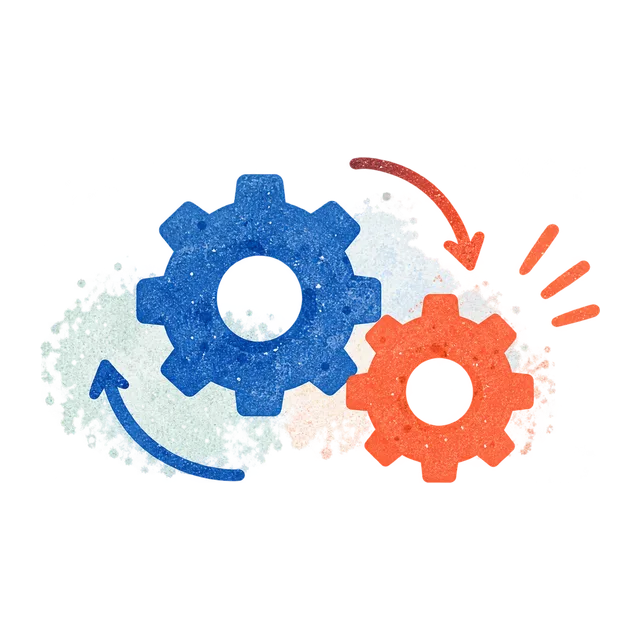
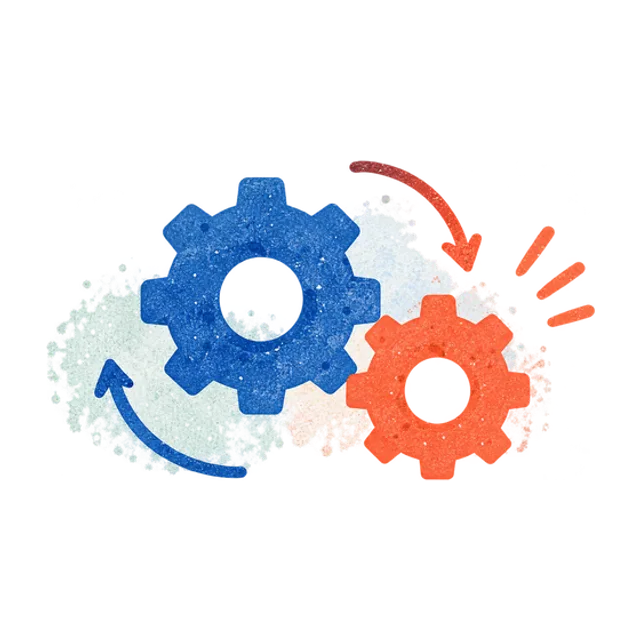
1-1-2 : vignette « Action → Réaction » remplacée ; pitch de 60 s sans cases de structure
S3 3.2 reçoit sa nouvelle vignette (engrenages). S2 2.6 : les quatre cases
« Structure de votre discours » ne servaient à rien (ni vérifiées ni
reprises au corrigé) et doublaient la structure attendue du cadre de
gauche : supprimées, avec leurs libellés et leurs styles.

diff --git a/atelier-vente/1-1-2/js/screens/s2-2-6.js b/atelier-vente/1-1-2/js/screens/s2-2-6.js
@@ -1,8 +1,7 @@
 /* S2 2.6 · Le pitch de 60 secondes.
  *
  * Trois temps :
- *   1 · RÉDIGER : le texte, avec son nombre de mots et sa durée estimée,
- *       puis la structure cochée (accroche, 2 bénéfices prouvés, conclusion) ;
+ *   1 · RÉDIGER : le texte, avec son nombre de mots et sa durée estimée ;
  *   2 · ENREGISTRER : une prise audio ou vidéo, arrêtée d'office à 60 s ;
  *   3 · S'ÉVALUER : réécouter, puis noter les 7 critères de 0 à 2.
  *
@@ -118,9 +117,6 @@
         <p class="k-instruction">Préparez un texte suffisamment court pour être prononcé en moins d’une minute.</p>
         ${ex.field('pitch', 'Votre pitch', { placeholder: 'Votre pitch…', max: 1200, rows: 8, hideLabel: true })}
         <p class="pitch-words" data-live="words">${esc(wordsLine())}</p>
-        <fieldset class="pitch-parts"><legend>Structure de votre discours</legend>${content.parts.map((part, i) => `
-          <label class="pitch-part"><input type="checkbox" data-field="part${i}" ${ex.value(`part${i}`) === true ? 'checked' : ''}><span>${esc(part)}</span></label>`).join('')}
-        </fieldset>
         ${core.errorsBox()}
         ${kit.bar({ left: kit.reset(), right: `${kit.dialogButton('example', 'Voir un exemple', 'secondary', '')}${kit.submit('Enregistrer mon texte et continuer')}` })}
       </form>

diff --git a/atelier-vente/1-1-2/css/s2.css b/atelier-vente/1-1-2/css/s2.css
@@ -93,10 +93,6 @@
 .pitch-structure { padding-left: 22px; display: grid; gap: 10px; font-size: 1.05rem; border-bottom: 1px solid var(--line); padding-bottom: 14px; }
 .pitch-tone { color: var(--navy); }
 .pitch-words { text-align: right; color: var(--accent); font-size: .95rem; margin-top: 4px; }
-.pitch-parts { border: 0; border-top: 1px solid var(--line); margin: 14px 0 0; padding: 12px 0 0; display: flex; flex-wrap: wrap; gap: 10px 28px; }
-.pitch-parts legend { color: var(--accent); font-weight: 650; padding: 0; margin-bottom: 8px; float: left; width: 100%; }
-.pitch-part { display: inline-flex; align-items: center; gap: 12px; font-size: 1.02rem; color: var(--navy); cursor: var(--cursor-hand, pointer); }
-.pitch-part input { width: 26px; height: 26px; }
 .pitch-text-head { display: flex; justify-content: space-between; align-items: center; }
 .pitch-text-body { min-height: 230px; padding: 14px; border: 1px solid #c9d6f1; border-radius: 10px; color: var(--navy); white-space: pre-wrap; margin: 8px 0; }
 .rec-format { display: inline-flex; margin: 0 auto 12px; border: 1px solid #c9d6f1; border-radius: 8px; overflow: hidden; }

diff --git a/atelier-vente/1-1-2/js/content-s2.js b/atelier-vente/1-1-2/js/content-s2.js
@@ -141,7 +141,6 @@ window.ATELIER_S2 = {
     badge: 'Spécial Sécurité',
     subtitle: 'Rédigez, enregistrez puis auto-évaluez votre pitch de RelaCosy face à un prospect particulièrement soucieux de la sécurité.',
     structure: ['Une accroche', 'Un bénéfice + une preuve', 'Un bénéfice + une preuve', 'Une conclusion'],
-    parts: ['Accroche', 'Bénéfice + preuve', 'Bénéfice + preuve', 'Conclusion'],
     example: 'Votre priorité, c’est que les données de vos clients ne soient jamais en danger : c’est exactement ce que fait RelaCosy. Vos données sont chiffrées et sauvegardées en continu, conformes RGPD : plus de 5 000 PME l’utilisent sans le moindre incident. Et vous n’avez rien à gérer côté technique, l’assistance répond en 2 minutes, 7j/7. Concrètement, vous gagnez en sérénité sans y consacrer de temps. Je vous propose qu’on regarde ensemble comment le mettre en place chez vous.',
     criteria: [
       { title: 'Orientation bénéfice', text: 'Je parle des bénéfices pour le client, pas des seules caractéristiques.' },
